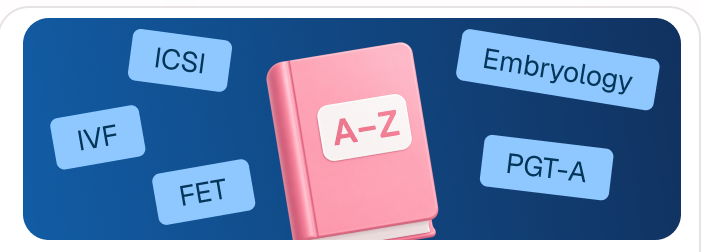
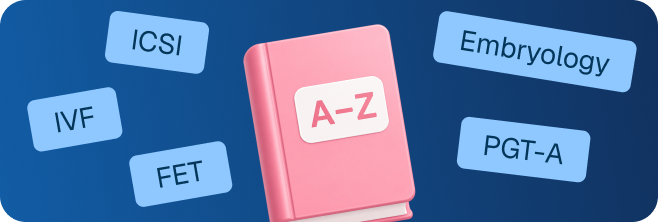
fix: cards and typos adjustments

diff --git a/src/components/Timeline.jsx b/src/components/Timeline.jsx
@@ -12,15 +12,21 @@ export default function Timeline() {
   return (
     <section id="timeline" className="py-16">
       <div className="container-page text-center">
-        <h2 className="reveal font-display text-[1.75rem] font-bold text-ink md:text-[2.2rem]">
+        {/* H2 — mesma tipografia de Skills: Geist 46/600/normal/ink */}
+        <h2 className="reveal w-full text-center font-display text-[46px] font-semibold leading-[normal] text-ink">
           Do cadastro a <span className="text-grad">primeira aula</span>
         </h2>
-        <p className="reveal mx-auto mt-4 max-w-lg text-base text-body" style={{ '--reveal-delay': '110ms' }}>
+
+        {/* Subtítulo da seção — Geist 18/400/normal/body (igual Personas e PainPoints) */}
+        <p
+          className="reveal mx-auto mt-4 max-w-[640px] font-display text-[18px] font-normal leading-[normal] text-body"
+          style={{ '--reveal-delay': '110ms' }}
+        >
           Um processo simples e transparente, pensado para formar turmas coesas e no nível certo.
         </p>
 
-        <div className="relative mt-16">
-          {/* connecting line */}
+        <div className="timeline-track relative mt-16">
+          {/* linha de conexão + traço que "desenha" no hover da etapa */}
           <div className="absolute left-0 right-0 top-6 hidden h-px bg-gradient-to-r from-transparent via-rose-300 to-transparent md:block" />
           <div className="grid gap-10 md:grid-cols-5">
             {steps.map((s, i) => {
@@ -29,21 +35,40 @@ export default function Timeline() {
               return (
                 <div
                   key={s.etapa}
-                  className="reveal relative flex flex-col items-center text-center"
+                  className="reveal timeline-step group relative flex cursor-default flex-col items-center text-center"
                   style={{ '--reveal-delay': `${i * 120}ms` }}
                 >
+                  {/* segmento da linha que se preenche no hover */}
+                  {i < steps.length - 1 && (
+                    <span className="pointer-events-none absolute left-1/2 right-[-50%] top-6 hidden h-px origin-left scale-x-0 bg-brand-grad transition-transform duration-500 ease-out group-hover:scale-x-100 md:block" />
+                  )}
+
                   <span
-                    className={`relative z-10 grid h-12 w-12 place-items-center rounded-full transition-transform duration-300 hover:scale-110 ${
-                      active ? 'bg-brand-grad text-white shadow-pill' : 'bg-white text-brand ring-1 ring-rose-200'
+                    className={`relative z-10 grid h-12 w-12 place-items-center rounded-full transition-all duration-300 ease-out group-hover:-translate-y-1 group-hover:scale-110 group-hover:shadow-[0_14px_28px_-10px_rgba(247,88,131,0.55)] ${
+                      active
+                        ? 'bg-brand-grad text-white shadow-pill'
+                        : 'bg-white text-brand ring-1 ring-rose-200 group-hover:bg-brand-grad group-hover:text-white group-hover:ring-transparent'
                     }`}
                   >
-                    <Icon className="h-5 w-5" />
+                    {/* halo pulsante no hover */}
+                    <span className="pointer-events-none absolute inset-0 rounded-full ring-2 ring-brand/30 opacity-0 transition-all duration-500 ease-out group-hover:scale-[1.35] group-hover:opacity-100" />
+                    <Icon className="h-5 w-5 transition-transform duration-300 ease-out group-hover:scale-110" />
                   </span>
-                  <span className="mt-5 text-xs font-bold tracking-wide text-ink">{s.etapa}</span>
-                  <h3 className="mt-1 whitespace-nowrap font-display text-[15px] font-semibold leading-snug text-grad md:text-base lg:whitespace-nowrap">
+
+                  {/* ETAPA — Geist 14/600/normal/ink */}
+                  <span className="mt-5 font-display text-[14px] font-semibold leading-[normal] tracking-wide text-ink transition-colors duration-300 group-hover:text-brand">
+                    {s.etapa}
+                  </span>
+
+                  {/* Título — Geist 16/600/normal */}
+                  <h3 className="mt-1 whitespace-nowrap font-display text-[16px] font-semibold leading-[normal] text-grad transition-transform duration-300 ease-out group-hover:-translate-y-0.5">
                     {s.title}
                   </h3>
-                  <p className="mt-1.5 max-w-[13rem] text-sm text-body">{s.text}</p>
+
+                  {/* Descrição — Geist 14/400/normal/ink */}
+                  <p className="mt-1.5 max-w-[13rem] font-display text-[14px] font-normal leading-[normal] text-ink transition-opacity duration-300 group-hover:opacity-100 md:opacity-90">
+                    {s.text}
+                  </p>
                 </div>
               )
             })}

diff --git a/src/components/Skills.jsx b/src/components/Skills.jsx
@@ -18,29 +18,42 @@ const skills = [
 
 export default function Skills() {
   return (
-    <section id="como-funciona" className="relative overflow-hidden py-16">
-      <div className="container-page relative text-center">
-        {/* ⚠ DERIVADO do token de Personas — validar no Dev Mode */}
+    <section id="como-funciona" className="relative pb-[69px] pt-[21px]">
+      <div className="container-page relative flex flex-col items-center gap-[62px]">
+        {/* H2 — Geist 46/600/normal/ink — CONFIRMADO no Dev Mode */}
         <h2 className="reveal w-full text-center font-display text-[46px] font-semibold leading-[normal] text-ink">
           Habilidades para a sua <span className="text-grad">rotina real</span>
         </h2>
 
-        <div className="mt-12 grid gap-6 text-left md:grid-cols-3">
+        {/* ⚠ gap entre cards DERIVADO do card de persona (24px) — não medido aqui */}
+        <div className="grid w-full gap-6 text-left md:grid-cols-3">
           {skills.map((s, i) => (
             <article
               key={s.title}
-              className="reveal card-lift group rounded-2xl bg-white p-4 shadow-card ring-1 ring-ink/5"
+              className="reveal card-lift group flex items-center justify-center rounded-2xl border border-border-soft bg-white pb-[30px] pl-[13px] pr-[10px] pt-[6px]"
               style={{ '--reveal-delay': `${i * 110}ms` }}
             >
-              <div className="overflow-hidden rounded-xl">
-                <img
-                  src={s.img}
-                  alt=""
-                  className="h-36 w-full object-cover transition-transform duration-500 ease-out group-hover:scale-105"
-                />
+              {/* ⚠ gap interno DERIVADO do card de persona (6px) — não medido aqui */}
+              <div className="flex w-full flex-col items-start gap-[6px]">
+                {/* Bloco da ilustração — h 111, radius 13, badge-grad, stretch */}
+                <div className="h-[111px] w-full overflow-hidden rounded-[13px] bg-badge-grad">
+                  <img
+                    src={s.img}
+                    alt=""
+                    className="h-full w-full object-contain transition-transform duration-500 ease-out group-hover:scale-105"
+                  />
+                </div>
+
+                {/* Título — Geist 16/600/normal/ink, stretch */}
+                <h3 className="w-full font-display text-[16px] font-semibold leading-[normal] text-ink">
+                  {s.title}
+                </h3>
+
+                {/* Descrição — Geist 14/400/normal/ink */}
+                <p className="font-display text-[14px] font-normal leading-[normal] text-ink">
+                  {s.text}
+                </p>
               </div>
-              <h3 className="mt-4 px-1 font-display text-lg font-semibold text-ink">{s.title}</h3>
-              <p className="mt-1.5 px-1 pb-2 text-sm leading-relaxed text-body">{s.text}</p>
             </article>
           ))}
         </div>

diff --git a/src/components/Teacher.jsx b/src/components/Teacher.jsx
@@ -72,7 +72,11 @@ export default function Teacher() {
       <div className="container-page relative">
         <div className="text-center">
           <p className="reveal text-sm font-semibold uppercase tracking-[0.25em] text-grad">Sobre a professora</p>
-          <h2 className="reveal mt-3 font-display text-[1.75rem] font-bold text-ink md:text-[2.2rem]" style={{ '--reveal-delay': '90ms' }}>
+          {/* H2 — mesma tipografia de Skills: Geist 46/600/normal/ink */}
+          <h2
+            className="reveal mt-3 w-full text-center font-display text-[46px] font-semibold leading-[normal] text-ink"
+            style={{ '--reveal-delay': '90ms' }}
+          >
             Quem ensina <span className="text-grad">entende seu cenário</span>
           </h2>
         </div>
@@ -83,7 +87,8 @@ export default function Teacher() {
           </div>
 
           <div>
-            <p className="reveal text-base leading-relaxed text-body">
+            {/* Texto — Geist 18/400/normal/body (mesmo padrão de Personas e PainPoints) */}
+            <p className="reveal font-display text-[18px] font-normal leading-[1.6] text-body">
               Idealizado por Giovanna, uma profissional que viveu a rotina do laboratório, participou de congressos
               internacionais e sentiu na pele a diferença que o inglês certo faz na carreira. O Beyond The Lab nasceu
               para encurtar esse caminho, com proximidade, profundidade técnica e um método pensado para gente como você.

diff --git a/src/index.css b/src/index.css
@@ -127,4 +127,9 @@
   .animate-floaty, .animate-drift, .animate-ring, .animate-swim {
     animation: none !important;
   }
+  /* microinterações da timeline */
+  .timeline-step * {
+    transition: none !important;
+    transform: none !important;
+  }
 }
